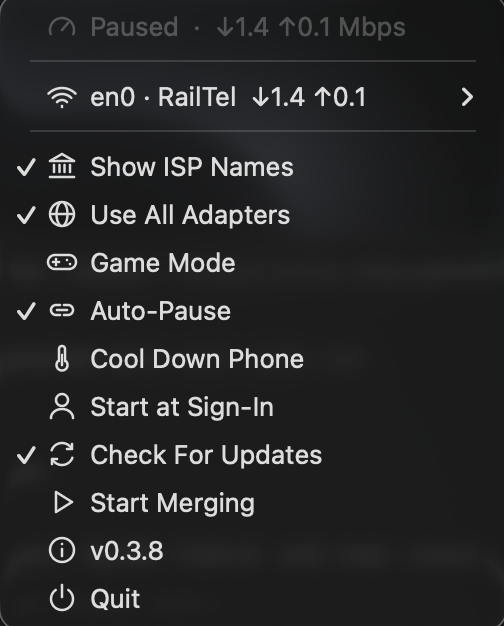
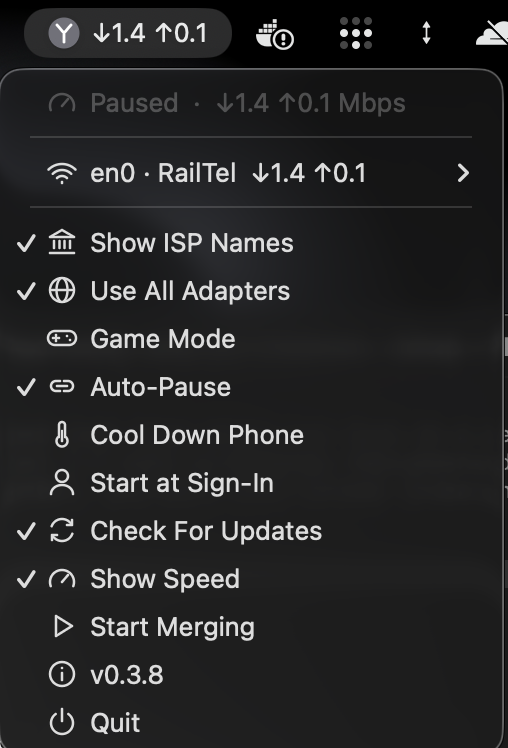
README: macOS menu picture with the speed in the menu bar

diff --git a/README.md b/README.md
@@ -48,7 +48,7 @@ A real test with Wi-Fi + an Android USB tether + an iPhone hotspot, 9 downloads 
 
 | Windows: hover the icon | Windows: the menu | macOS: the menu bar |
 |---|---|---|
-| ![Tooltip: Merging, speed of each adapter and the total](docs/tray-tooltip.png) | ![Menu: the total, each adapter with its provider and speed, tick boxes with icons, Pause Merging, version, Quit](docs/tray-menu.png) | ![macOS menu: Wi-Fi with its provider and speed, tick boxes with icons, Start Merging, version, Quit](docs/tray-menu-macos.png) |
+| ![Tooltip: Merging, speed of each adapter and the total](docs/tray-tooltip.png) | ![Menu: the total, each adapter with its provider and speed, tick boxes with icons, Pause Merging, version, Quit](docs/tray-menu.png) | ![macOS menu bar with the speed beside the icon, and the menu: Wi-Fi with its provider, tick boxes with icons, Start Merging, version, Quit](docs/tray-menu-macos.png) |
 
 ## Adapter icons and names
 
